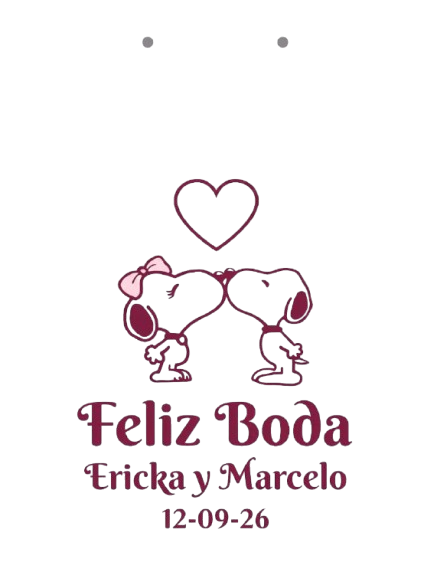
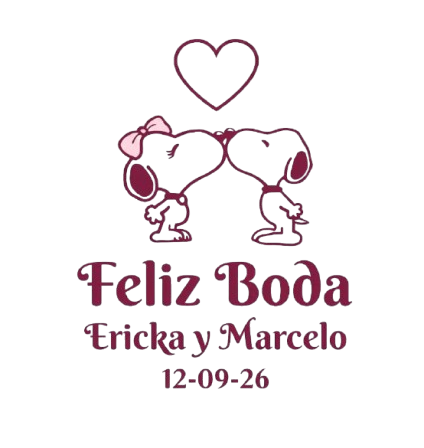
Auditoría de color completa a vino y mejoras al detalle final
- Encuentra y corrige restos de verde sage que quedaban en sombras y
  overlays con tinte propio (no ligados a las variables de color): sombra
  de contacto del sobre, sombras de la tarjeta y la solapa, overlay del
  hero, botón flotante "bajar" y overlay del modal de mapa
- Corrige un tono verde pálido oculto en el degradado de textura de la
  tarjeta (paper-opalina.svg), visible como mancha verdosa en la carta
- Recorta dos puntos sin sentido en la parte superior de love-pareja.png
- Agrega texto de agradecimiento a la sección de cierre para que no se
  sienta vacía

diff --git a/css/styles.css b/css/styles.css
@@ -1,6 +1,6 @@
 /* =========================================================
-   INVITACION DE BODA — Ana & Carlos
-   Paleta: Verde sage · Tipografia: Parisienne + Montserrat
+   INVITACION DE BODA — Marcelo & Ericka
+   Paleta: Vino · Tipografia: Parisienne + Montserrat
    ========================================================= */
 
 html, body {
@@ -221,7 +221,7 @@ img { border-radius: var(--radius); }
   transform: translateX(-50%);
   width: 86%;
   height: 26px;
-  background: radial-gradient(ellipse at center, rgba(8, 12, 6, 0.5), rgba(8, 12, 6, 0) 72%);
+  background: radial-gradient(ellipse at center, rgba(30, 12, 16, 0.5), rgba(30, 12, 16, 0) 72%);
   filter: blur(3px);
   z-index: -1;
 }
@@ -240,9 +240,9 @@ img { border-radius: var(--radius); }
   border-radius: var(--radius);
   background: linear-gradient(135deg, var(--color-accent-dark), #3A1620);
   box-shadow:
-    0 3px 6px rgba(15, 18, 10, 0.3),
-    0 16px 34px rgba(15, 18, 10, 0.35),
-    0 36px 60px rgba(15, 18, 10, 0.2),
+    0 3px 6px rgba(30, 12, 16, 0.3),
+    0 16px 34px rgba(30, 12, 16, 0.35),
+    0 36px 60px rgba(30, 12, 16, 0.2),
     inset 0 0 0 1px rgba(255, 255, 255, 0.07),
     inset 0 1px 0 rgba(255, 255, 255, 0.16);
   z-index: 1;
@@ -277,7 +277,7 @@ img { border-radius: var(--radius); }
   background-color: #F5F0E4;
 
   box-shadow:
-    0 10px 25px rgba(20, 24, 16, 0.28),
+    0 10px 25px rgba(30, 12, 16, 0.28),
     inset 0 0 0 1px rgba(255, 255, 255, 0.65),
     inset 0 1px 1px rgba(255, 255, 255, 0.9),
     inset 0 -1px 3px rgba(120, 110, 95, 0.15);
@@ -302,7 +302,7 @@ img { border-radius: var(--radius); }
   z-index: -1;
   border-radius: 3px;
   background: var(--color-bg-alt);
-  box-shadow: 0 6px 12px rgba(20, 24, 16, 0.18);
+  box-shadow: 0 6px 12px rgba(30, 12, 16, 0.18);
 }
 
 .envelope__card .envelope__eyebrow {
@@ -360,7 +360,7 @@ img { border-radius: var(--radius); }
   position: absolute;
   inset: 0;
   clip-path: inherit;
-  background: linear-gradient(180deg, rgba(10, 14, 8, 0.32) 0%, rgba(10, 14, 8, 0) 14%);
+  background: linear-gradient(180deg, rgba(30, 12, 16, 0.32) 0%, rgba(30, 12, 16, 0) 14%);
   pointer-events: none;
 }
 
@@ -375,7 +375,7 @@ img { border-radius: var(--radius); }
   clip-path: polygon(0 0, 100% 0, 64% 100%, 36% 100%);
   transform-origin: top center;
   backface-visibility: hidden;
-  filter: drop-shadow(0 4px 8px rgba(20, 24, 16, 0.3));
+  filter: drop-shadow(0 4px 8px rgba(30, 12, 16, 0.3));
 }
 
 /* Pliegue de la solapa: leve degrade que sugiere el doblez del papel real */
@@ -386,7 +386,7 @@ img { border-radius: var(--radius); }
   clip-path: inherit;
   background:
     linear-gradient(180deg, rgba(255, 255, 255, 0.14) 0%, rgba(255, 255, 255, 0) 10%),
-    linear-gradient(180deg, transparent 72%, rgba(10, 14, 8, 0.3) 100%);
+    linear-gradient(180deg, transparent 72%, rgba(30, 12, 16, 0.3) 100%);
   pointer-events: none;
 }
 
@@ -469,7 +469,7 @@ img { border-radius: var(--radius); }
   width: 52px;
   height: 52px;
   border-radius: 50%;
-  background: rgba(38, 44, 34, 0.55);
+  background: rgba(44, 20, 26, 0.6);
   color: var(--color-white);
   font-size: 1.3rem;
   display: flex;
@@ -514,7 +514,7 @@ img { border-radius: var(--radius); }
 .hero__overlay {
   position: absolute;
   inset: 0;
-  background: linear-gradient(180deg, var(--color-overlay), rgba(38,44,34,0.75));
+  background: linear-gradient(180deg, var(--color-overlay), rgba(44,20,26,0.75));
   opacity: 0;
   transition: opacity 1.6s ease;
 }
@@ -830,12 +830,19 @@ img { border-radius: var(--radius); }
 .share-section__icon { font-size: 2.4rem; color: var(--color-accent); margin-bottom: var(--space-sm); }
 .share-section p { color: var(--color-text-soft); margin: var(--space-sm) 0 var(--space-md); }
 
+.notice-text {
+  color: var(--color-text-soft);
+  max-width: 32em;
+  margin: 0 auto;
+  line-height: 1.7;
+}
+
 .notice-illustration {
   display: block;
   width: 100%;
-  max-width: 260px;
+  max-width: 220px;
   height: auto;
-  margin: var(--space-sm) auto 0;
+  margin: var(--space-md) auto 0;
 }
 
 /* ===================== Mesa de regalos ===================== */
@@ -980,7 +987,7 @@ img { border-radius: var(--radius); }
 .modal__overlay {
   position: absolute;
   inset: 0;
-  background: rgba(38,44,34,0.72);
+  background: rgba(44,20,26,0.72);
   backdrop-filter: blur(3px);
 }
 

diff --git a/index.html b/index.html
@@ -375,6 +375,7 @@
   <section id="aviso" class="section notice-section">
     <div class="container container--narrow" data-aos="fade-up">
       <p class="eyebrow">Con todo nuestro cariño</p>
+      <p class="notice-text">Gracias por ser parte de nuestra historia y por acompañarnos en el inicio de esta nueva etapa. Tu presencia hace este día aún más especial.</p>
       <img src="assets/images/love-pareja.png" alt="Feliz boda, Ericka y Marcelo, 12-09-26" class="notice-illustration">
     </div>
   </section>
